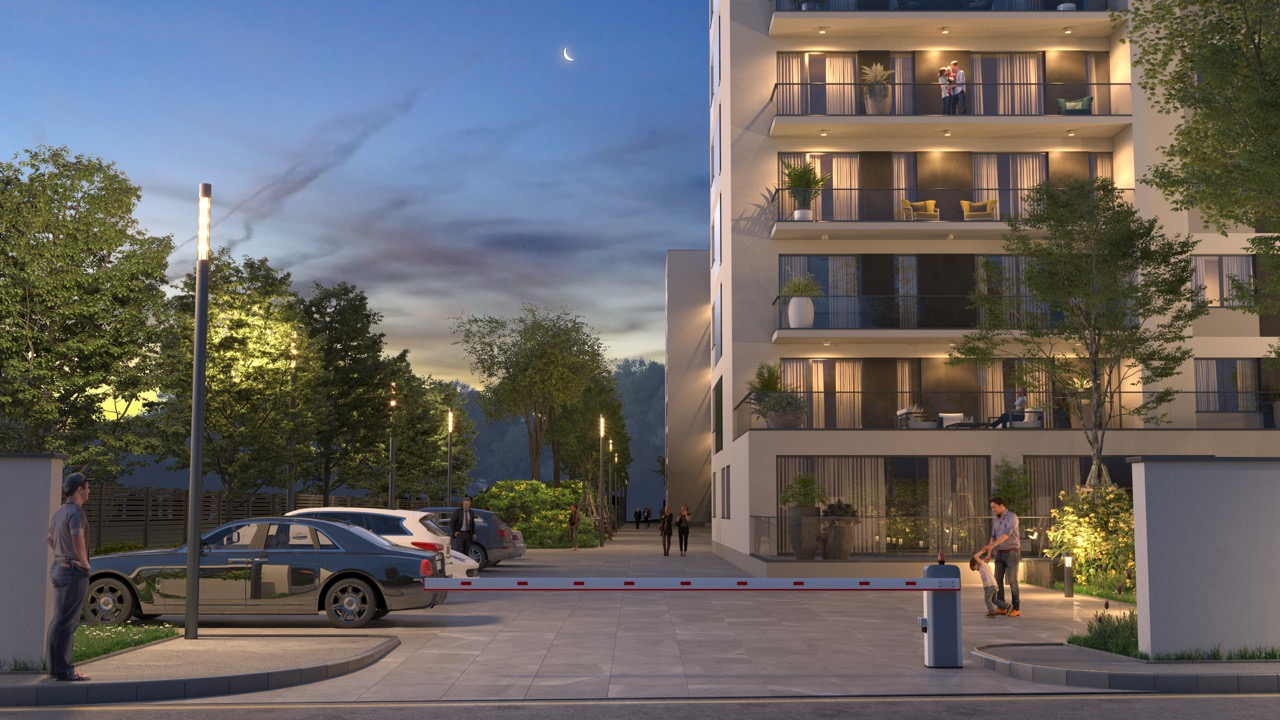
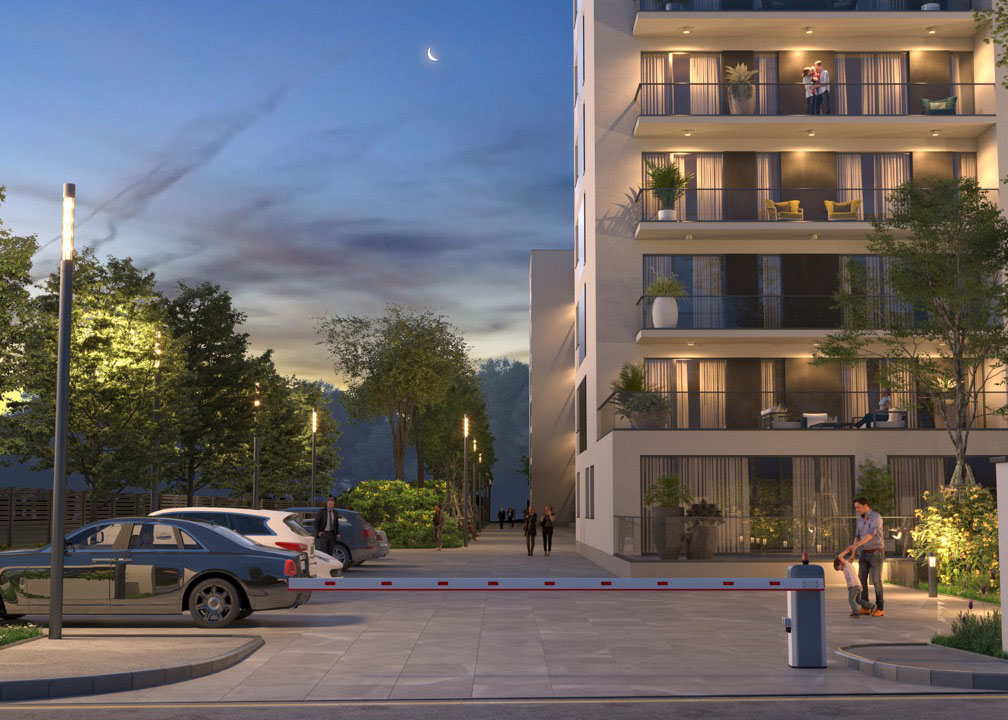
Schimbare poze principala

diff --git a/index.html b/index.html
@@ -176,13 +176,13 @@
                                         <img src="27/3.jpeg" class="d-block w-100" alt="...">
                                     </div>
                                     <div class="carousel-item">
-                                        <img src="27/4.jpeg" class="d-block w-100" alt="...">
+                                        <img src="10/1.jpeg" class="d-block w-100" alt="...">
                                     </div>
                                     <div class="carousel-item">
-                                        <img src="27/5.jpeg" class="d-block w-100" alt="...">
+                                        <img src="10/2.jpeg" class="d-block w-100" alt="...">
                                     </div>
                                     <div class="carousel-item">
-                                        <img src="27/6.jpeg" class="d-block w-100" alt="...">
+                                        <img src="10/3.jpeg" class="d-block w-100" alt="...">
                                     </div>
                                 </div>
                             </div>
